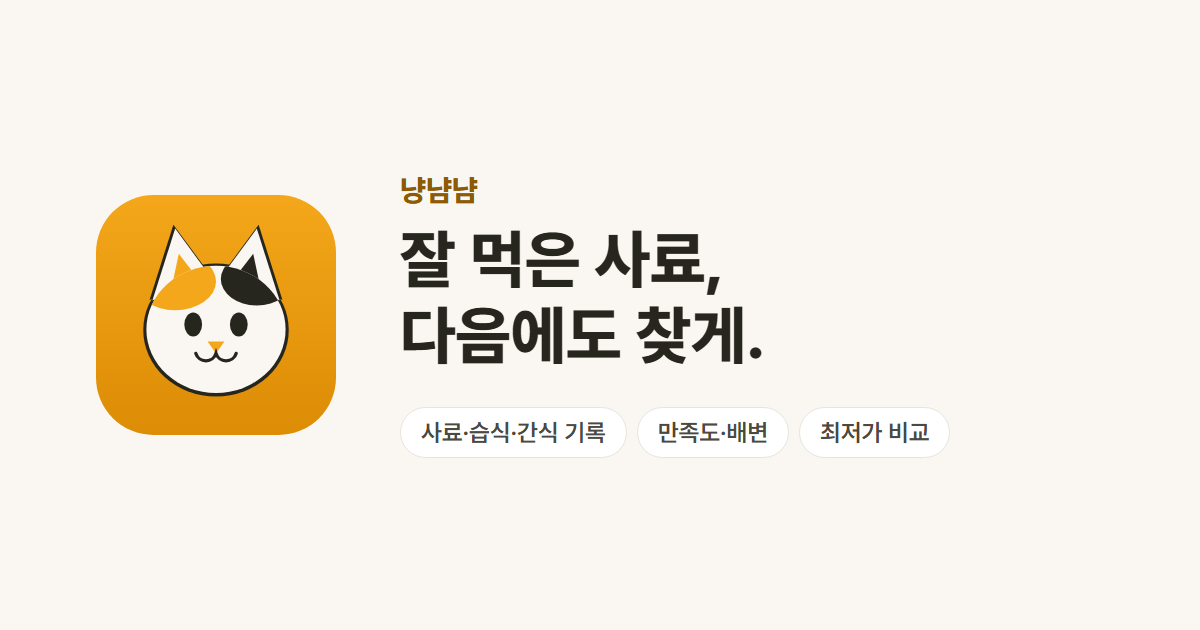
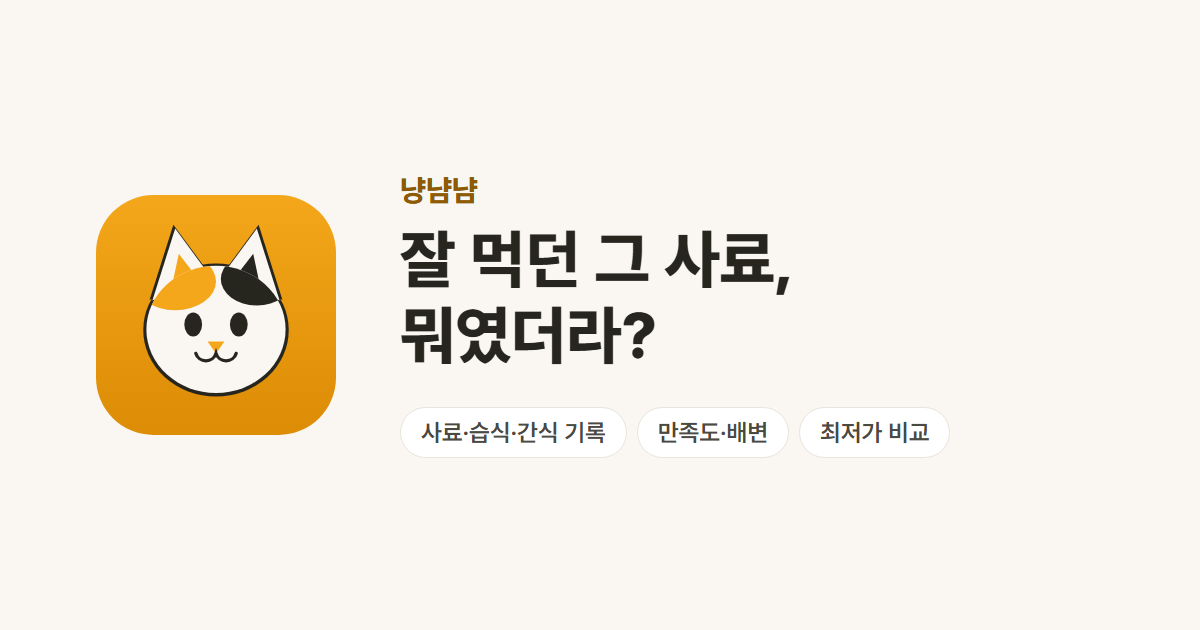
소개 화면 문구 다듬기 — 제목을 "잘 먹던 그 사료, 뭐였더라?"로
끊기는 명령형("~찾게.") 대신 고양이 보호자가 실제로 떠올리는 질문으로 시작한다.
카드·질문 답변을 끝까지 풀어 쓴 해요체로, 스티커는 "아리 꺼" 등으로.
샘플 고양이 이름도 아리로 맞춰 폰 미리보기와 스티커가 어긋나지 않게 한다.
미리보기 이미지도 새 제목으로 다시 찍었다.

Changed region(s): [[0.3392, 0.3619, 0.6783, 0.573]]

diff --git a/src/pages/landing/content.ts b/src/pages/landing/content.ts
@@ -24,64 +24,64 @@ export const LANDING = {
   hero: {
     eyebrow: '고양이 사료 기록장',
     /** 줄바꿈 위치까지 문구다 */
-    title: ['잘 먹은 사료,', '다음에도 찾게.'],
+    title: ['잘 먹던 그 사료,', '뭐였더라?'],
     lead:
-      '우리 고양이가 먹은 사료·습식·간식을 기록해 두세요. 잘 먹었는지, 배변은 괜찮았는지, 어디서 얼마에 샀는지 남겨 두면 다음에 살 사료를 고민 없이 고를 수 있어요.',
+      '고양이가 먹은 사료·습식·간식을 기록해 두세요. 잘 먹었는지, 배변은 괜찮았는지, 어디서 얼마에 샀는지 남겨 두면 다음에 뭘 살지 더 이상 헤매지 않아요.',
     primary: '첫 기록 남기기',
     secondary: '예시 둘러보기',
-    note: '가입도 설치도 없이, 무료로 바로 써요.',
+    note: '가입이나 설치 없이 무료로 바로 쓸 수 있어요.',
   },
 
   /**
    * 첫 화면 폰 둘레에 붙는 스티커. 화면 장식이라 정적 HTML에는 넣지 않는다.
    * 폰 안의 앱 화면은 샘플 기록(src/mock)을 실제 카드로 그린다.
    */
-  heroStickers: ['최저가 기억!', '또 사줄게', '하트 다섯 개', '설사한 건 걸러요'],
+  heroStickers: ['최저가는 여기!', '또 사 줄게', '하트 다섯 개', '배탈 난 건 패스'],
   previewLabel: '샘플 기록으로 본 앱 화면',
 
   record: {
-    title: '먹을 때마다 한 줄씩',
+    title: '살 때마다 한 줄씩',
     items: [
       {
         icon: 'notebook',
-        title: '무엇을 샀는지',
-        body: '브랜드, 제품명, 맛, 종류(건사료·습식·간식·영양제), 용량, 가격, 구매처, 사진까지.',
+        title: '뭘 샀는지',
+        body: '브랜드, 제품명, 맛, 종류(건사료·습식·간식·영양제), 용량, 가격, 구매처, 사진까지 남겨요.',
         sticker: '찰칵',
       },
       {
         icon: 'heart',
         title: '잘 먹었는지',
-        body: '만족도 하트 5단계, 배변 상태, 또 살지 말지를 버튼 몇 번으로 남겨요.',
+        body: '만족도, 배변 상태, 또 살지 말지를 버튼 몇 번으로 남겨요.',
         sticker: '냠냠 5점',
       },
       {
         icon: 'cat',
         title: '누가 먹었는지',
-        body: '여러 마리를 키워도 고양이별로 나눠 기록하고 따로 모아 봐요.',
-        sticker: '나비 거',
+        body: '여러 마리를 키워도 고양이별로 나눠서 기록하고 따로 모아 볼 수 있어요.',
+        sticker: '아리 꺼',
       },
     ] satisfies readonly LandingItem[],
   },
 
   insights: {
-    title: '쌓이면 이런 걸 알려줘요',
+    title: '기록이 쌓이면 이런 걸 알 수 있어요',
     items: [
       {
         icon: 'repeat',
-        title: '같은 제품은 한 장으로',
-        body: '여러 번 산 기록을 모아 구매처별 가격과 최저가, 평균 만족도를 나란히 보여줘요.',
-        sticker: '여기가 최저',
+        title: '어디가 제일 쌌는지',
+        body: '같은 제품을 여러 번 샀다면 한데 모아서, 어디서 얼마에 샀고 어디가 제일 쌌는지 보여줘요.',
+        sticker: '여기가 제일 싸요',
       },
       {
         icon: 'chart',
-        title: '100g당 단가로 비교',
-        body: '용량이 달라도 100g당 가격으로 바꿔 어느 쪽이 싼지 바로 보여요. 최근 6개월 지출도 한눈에.',
+        title: '용량이 달라도 가격 비교',
+        body: '100g당 가격으로 바꿔서 어느 쪽이 더 싼지 바로 알려줘요. 최근 6개월 동안 쓴 돈도 볼 수 있어요.',
         sticker: '100g당 얼마?',
       },
       {
         icon: 'paw',
-        title: '배변이 안 좋았던 사료',
-        body: '통계에서 따로 모아 보여줘서, 안 맞았던 사료를 다시 사는 일이 없어요.',
+        title: '안 맞았던 사료',
+        body: '먹고 나서 배변이 안 좋았던 사료를 따로 모아 줘서, 같은 사료를 또 사는 실수를 막아요.',
         sticker: '이건 패스',
       },
     ] satisfies readonly LandingItem[],
@@ -91,8 +91,8 @@ export const LANDING = {
     title: '자주 묻는 질문',
     items: [
       {
-        q: '가입해야 쓸 수 있나요?',
-        a: '아니요. 로그인하지 않으면 기록이 이 기기에만 저장돼요. 구글로 로그인하면 여러 기기에서 같은 기록을 볼 수 있어요.',
+        q: '가입해야 하나요?',
+        a: '아니요. 로그인하지 않으면 기록은 이 기기에만 저장돼요. 구글로 로그인하면 다른 기기에서도 같은 기록을 볼 수 있어요.',
       },
       {
         q: '앱을 설치해야 하나요?',
@@ -100,17 +100,17 @@ export const LANDING = {
       },
       {
         q: '내 기록이 다른 사람에게 보이나요?',
-        a: '아니요. 기록은 나만 볼 수 있어요. 리뷰를 모으는 곳이 아니라 우리 고양이만의 기록장이에요.',
+        a: '아니요. 기록은 나만 볼 수 있어요. 리뷰를 모으는 곳이 아니라, 우리 고양이만을 위한 기록장이에요.',
       },
       {
-        q: '기록을 옮기거나 보관할 수 있나요?',
-        a: '설정의 백업에서 사진까지 담은 파일로 내보내고, 다른 기기에서 가져올 수 있어요.',
+        q: '기록을 따로 보관할 수 있나요?',
+        a: '설정의 백업에서 사진까지 담아 파일로 내보낼 수 있어요. 다른 기기에서 그 파일을 그대로 가져오면 돼요.',
       },
     ],
   },
 
   closing: {
-    title: '오늘 먹은 한 끼부터.',
+    title: '오늘 먹은 것부터 적어 봐요',
     primary: '첫 기록 남기기',
   },
 } as const;

diff --git a/index.html b/index.html
@@ -20,7 +20,7 @@
     <meta property="og:image" content="https://nyamnyam-1fe27.web.app/og-image.png" />
     <meta property="og:image:width" content="1200" />
     <meta property="og:image:height" content="630" />
-    <meta property="og:image:alt" content="냥냠냠 로고와 '잘 먹은 사료, 다음에도 찾게.' 문구" />
+    <meta property="og:image:alt" content="냥냠냠 로고와 '잘 먹던 그 사료, 뭐였더라?' 문구" />
     <meta name="twitter:card" content="summary_large_image" />
     <meta name="twitter:title" content="냥냠냠 · 고양이 사료 기록장" />
     <meta name="twitter:description" content="고양이가 먹은 사료·습식·간식을 기록하는 무료 앱. 만족도와 배변 상태, 재구매 의향을 남기고 구매처별 가격과 100g당 단가를 비교해 다음에 살 사료를 쉽게 고르세요." />

diff --git a/scripts/og/og-image.html b/scripts/og/og-image.html
@@ -83,7 +83,7 @@
     <img class="mark" src="../../public/favicon.svg" alt="" />
     <div>
       <p class="name">냥냠냠</p>
-      <h1>잘 먹은 사료,<br />다음에도 찾게.</h1>
+      <h1>잘 먹던 그 사료,<br />뭐였더라?</h1>
       <div class="chips">
         <span class="chip">사료·습식·간식 기록</span>
         <span class="chip">만족도·배변</span>

diff --git a/src/mock/cats.ts b/src/mock/cats.ts
@@ -50,7 +50,7 @@ function photo(icon: IconName, bg: string, fg: string) {
 export const MOCK_CATS: Cat[] = [
   {
     id: 'cat_mock_01',
-    name: '나비',
+    name: '아리',
     photo: photo('cat', '#ffe0c2', '#b85714'),
     birthday: yearsAgo(3, 4),
     breed: '코리안숏헤어',
